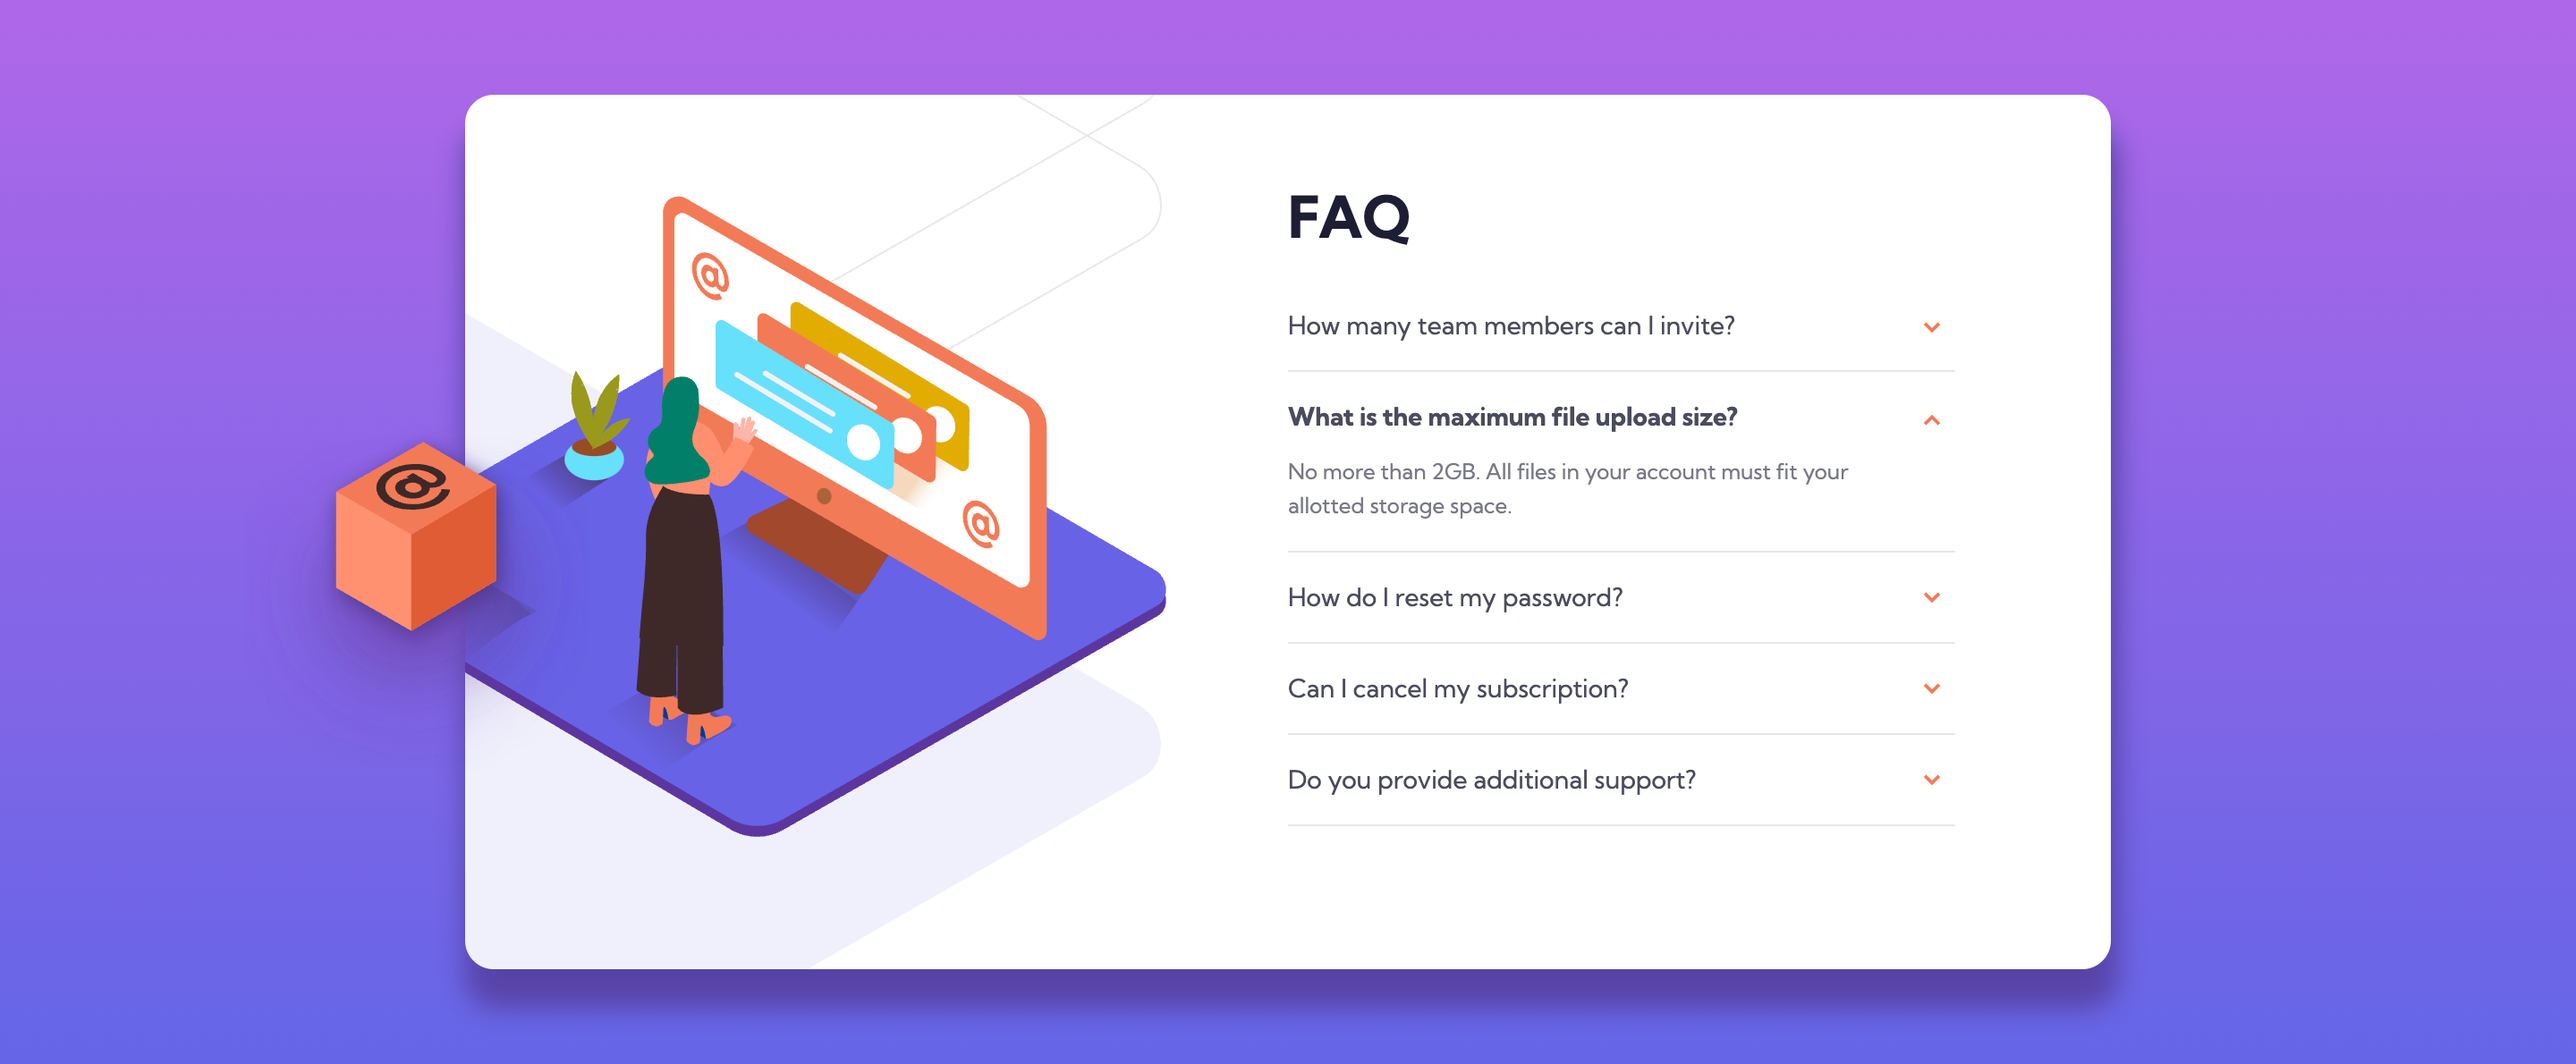
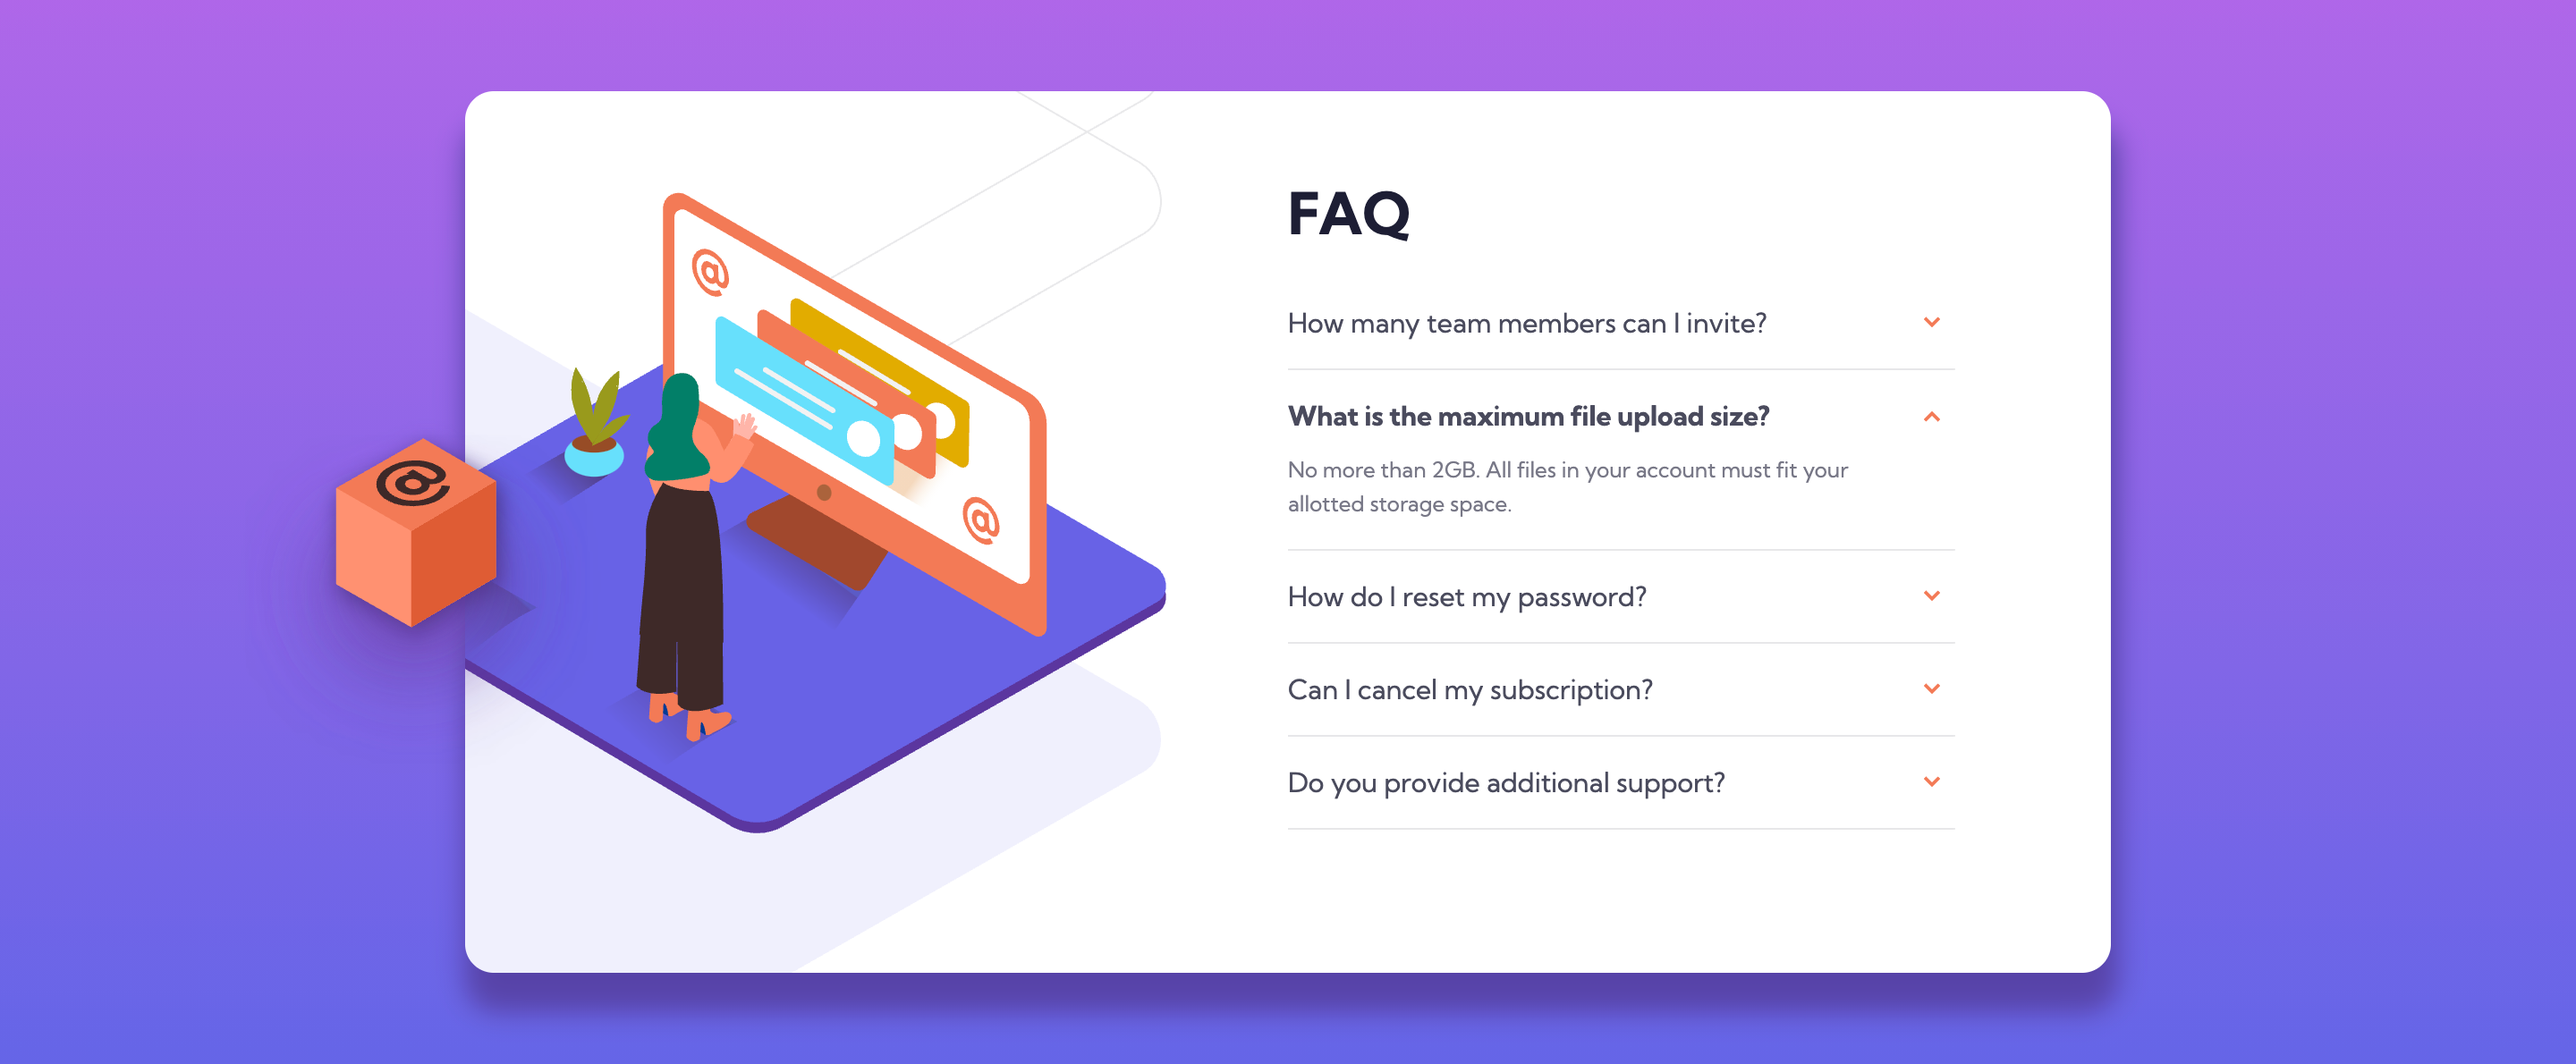
Update faq-accordion-card

diff --git a/faq-accordion-card/index.html b/faq-accordion-card/index.html
@@ -17,7 +17,7 @@
       <h1 class="back-title">FAQ</h1>
       <article class="drop-down">
         <section class="drop-title">
-          <h4 class="faq-q">How many team members can I invite?</h4>
+          <h2 class="faq-q">How many team members can I invite?</h2>
           <img class="a-btn" src="./images/icon-arrow-down.svg" alt="">
           <p class="drop-content close">You can invite up to 2 additional users on the Free plan. There is no limit on team
             members for the Premium plan.</p>
@@ -25,14 +25,14 @@
         <hr />
 
         <section class="drop-title">
-          <h4 class="faq-q">What is the maximum file upload size?</h4>
+          <h2 class="faq-q">What is the maximum file upload size?</h2>
           <img class="a-btn" src="./images/icon-arrow-down.svg" alt="">
           <p class="drop-content open">No more than 2GB. All files in your account must fit your allotted storage space.</p>
         </section>
         <hr />
 
         <section class="drop-title">
-          <h4 class="faq-q">How do I reset my password?</h4>
+          <h2 class="faq-q">How do I reset my password?</h2>
           <img class="a-btn" src="./images/icon-arrow-down.svg" alt="">
           <p class="drop-content close">Click “Forgot password” from the login page or “Change password” from your profile page.
             A reset link will be emailed to you.</p>
@@ -40,14 +40,14 @@
         <hr />
         
         <section class="drop-title">
-          <h4 class="faq-q">Can I cancel my subscription?</h4>
+          <h2 class="faq-q">Can I cancel my subscription?</h2>
           <img class="a-btn" src="./images/icon-arrow-down.svg" alt="">
           <p class="drop-content close">Yes! Send us a message and we’ll process your request no questions asked.</p>
         </section>
         <hr />
 
         <section class="drop-title">
-          <h4 class="faq-q">Do you provide additional support?</h4>
+          <h2 class="faq-q">Do you provide additional support?</h2>
           <img class="a-btn" src="./images/icon-arrow-down.svg" alt="">
           <p class="drop-content close">Chat and email support is available 24/7. Phone lines are open during normal business
             hours.</p>

diff --git a/faq-accordion-card/style.css b/faq-accordion-card/style.css
@@ -85,6 +85,7 @@ body {
   display: inline;
   margin: 0;
   font-weight: normal;
+  font-size: 15px;
   color: var(--very-dark-grayish-blue);
 }
 
@@ -154,6 +155,10 @@ hr {
   .drop-down {
     width: 17.5rem;
     margin: 1rem 0 3rem 0;
+  }
+
+  .faq-q {
+    font-size: 13px;
   }
 
   .a-btn {

diff --git a/faq-accordion-card/main.js b/faq-accordion-card/main.js
@@ -21,3 +21,7 @@ function openFaqDrop(fd) {
         fd[1].style.transform = 'rotate(0deg)'
     }
 }
+
+console.log(faqDrop[2])
+faqDrop[2].children[0].style.fontWeight = '700'
+faqDrop[2].children[1].style.transform = 'rotate(180deg)'
